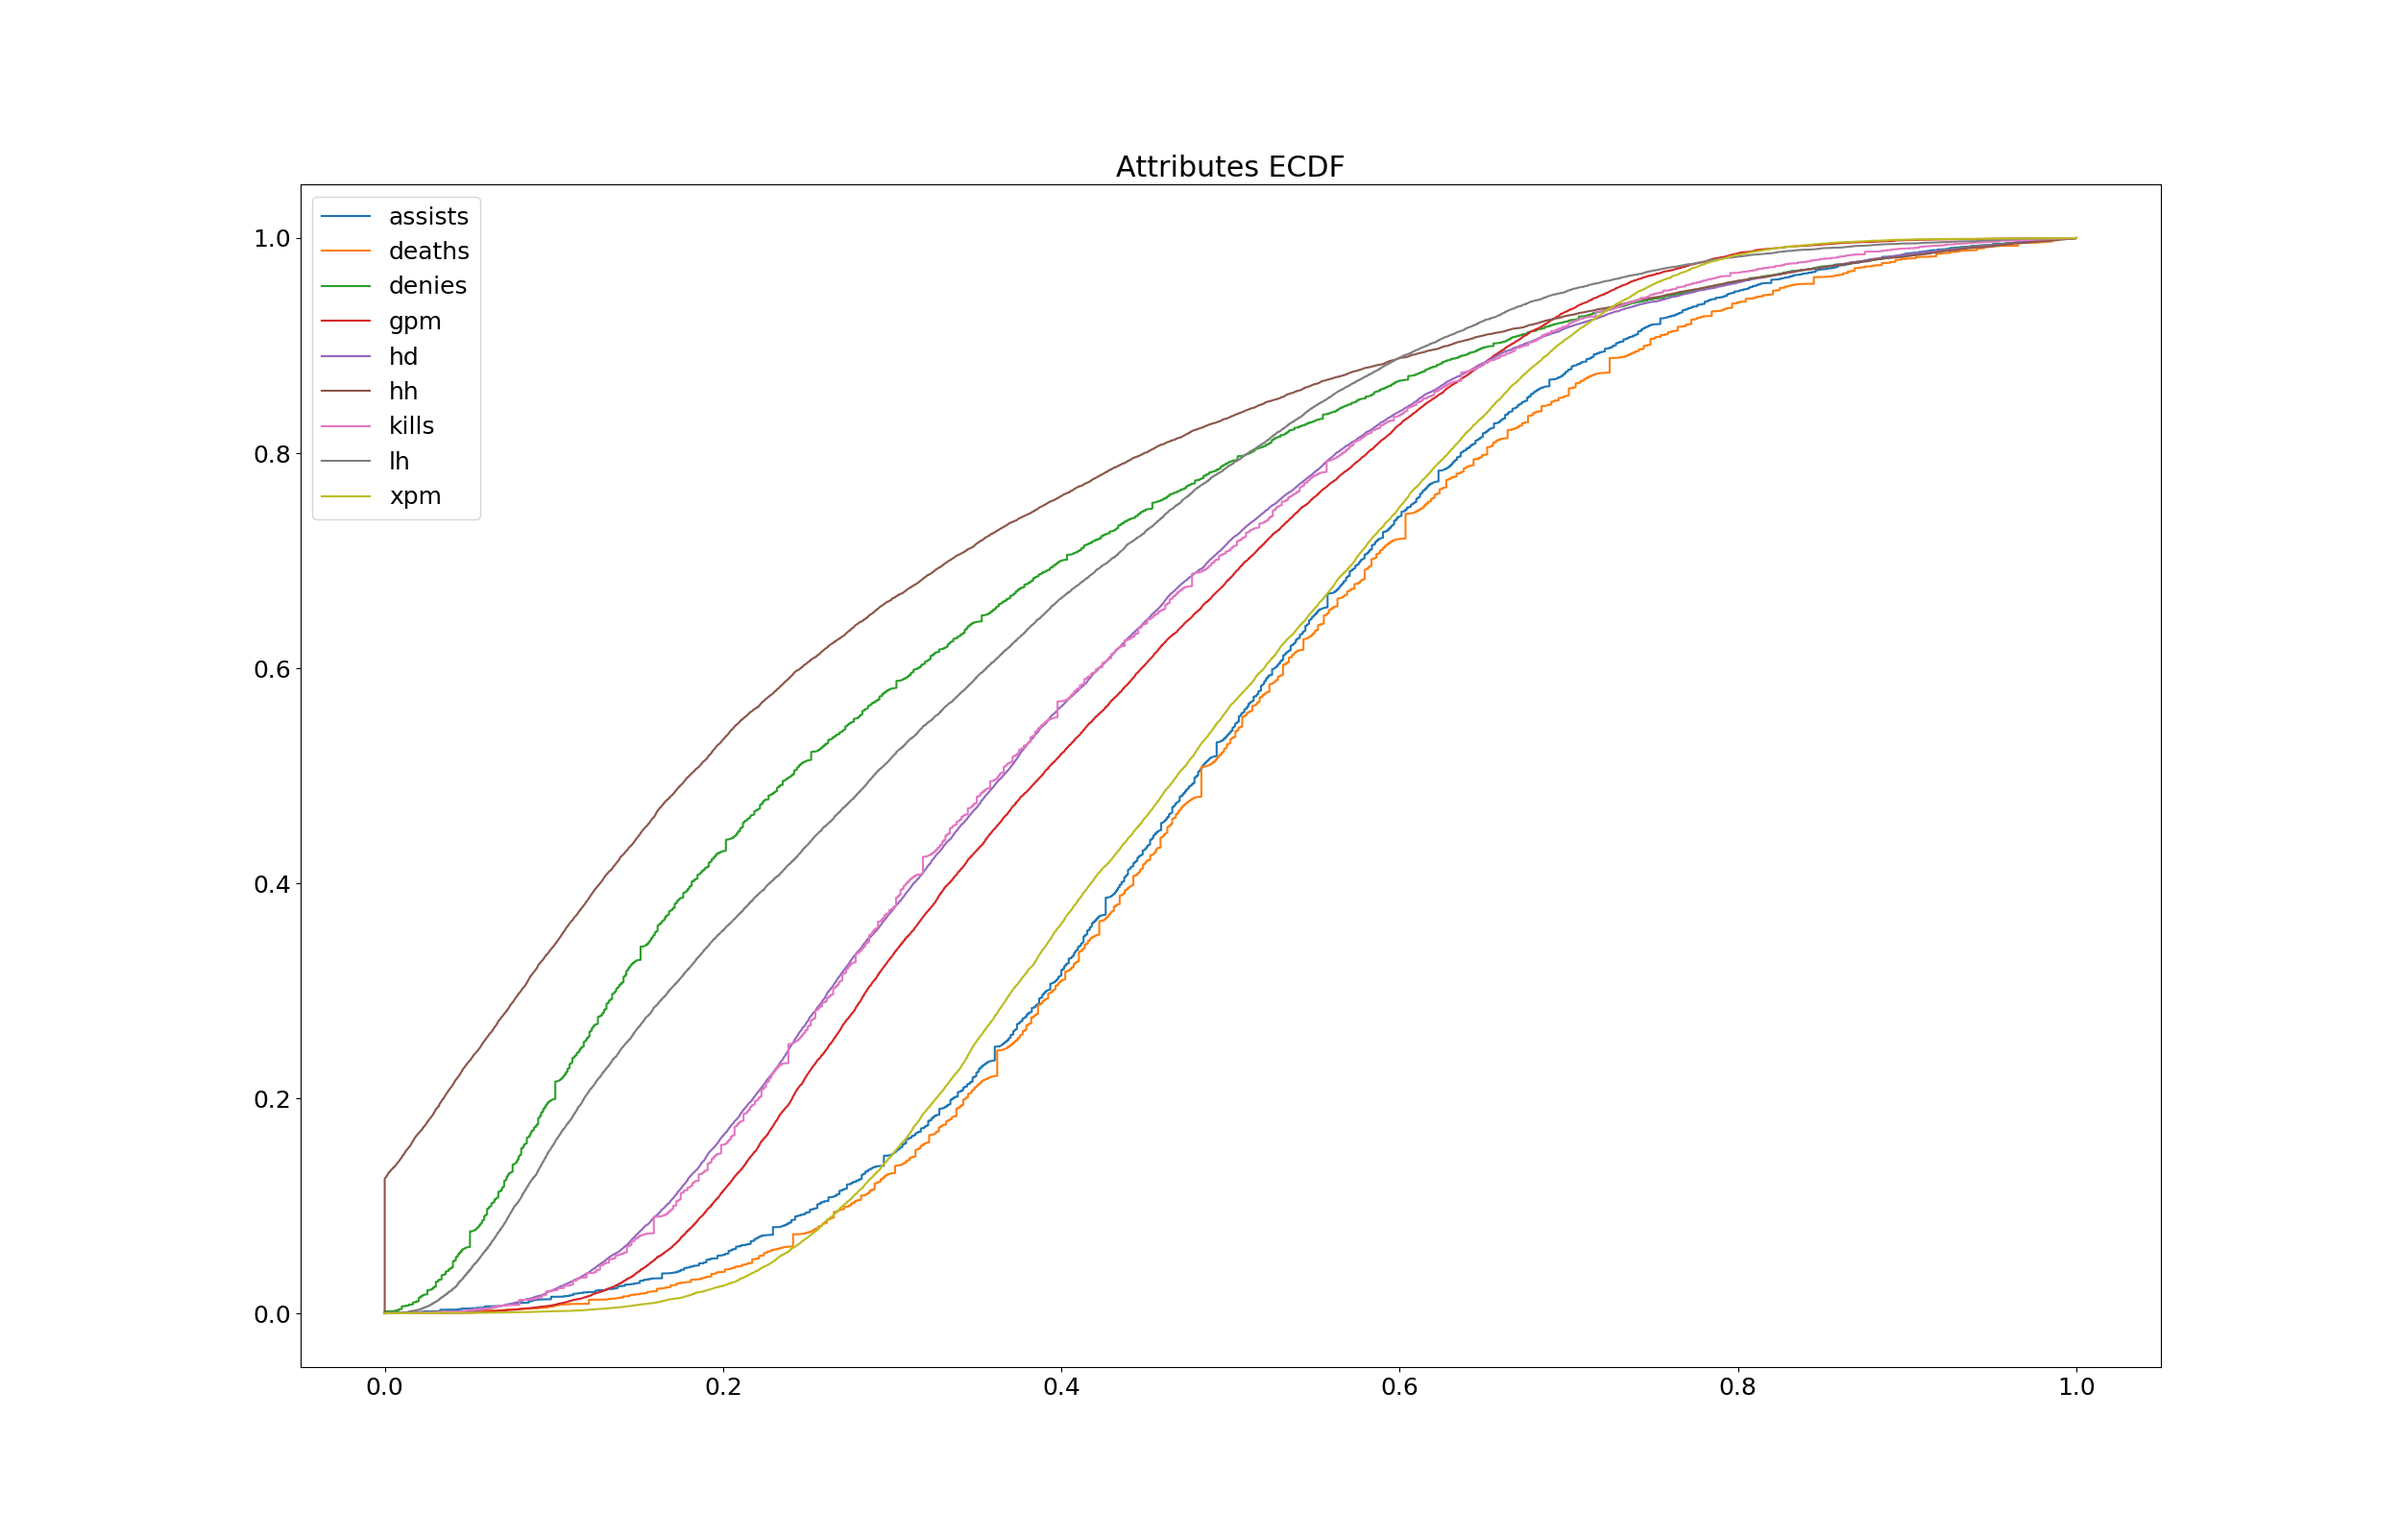
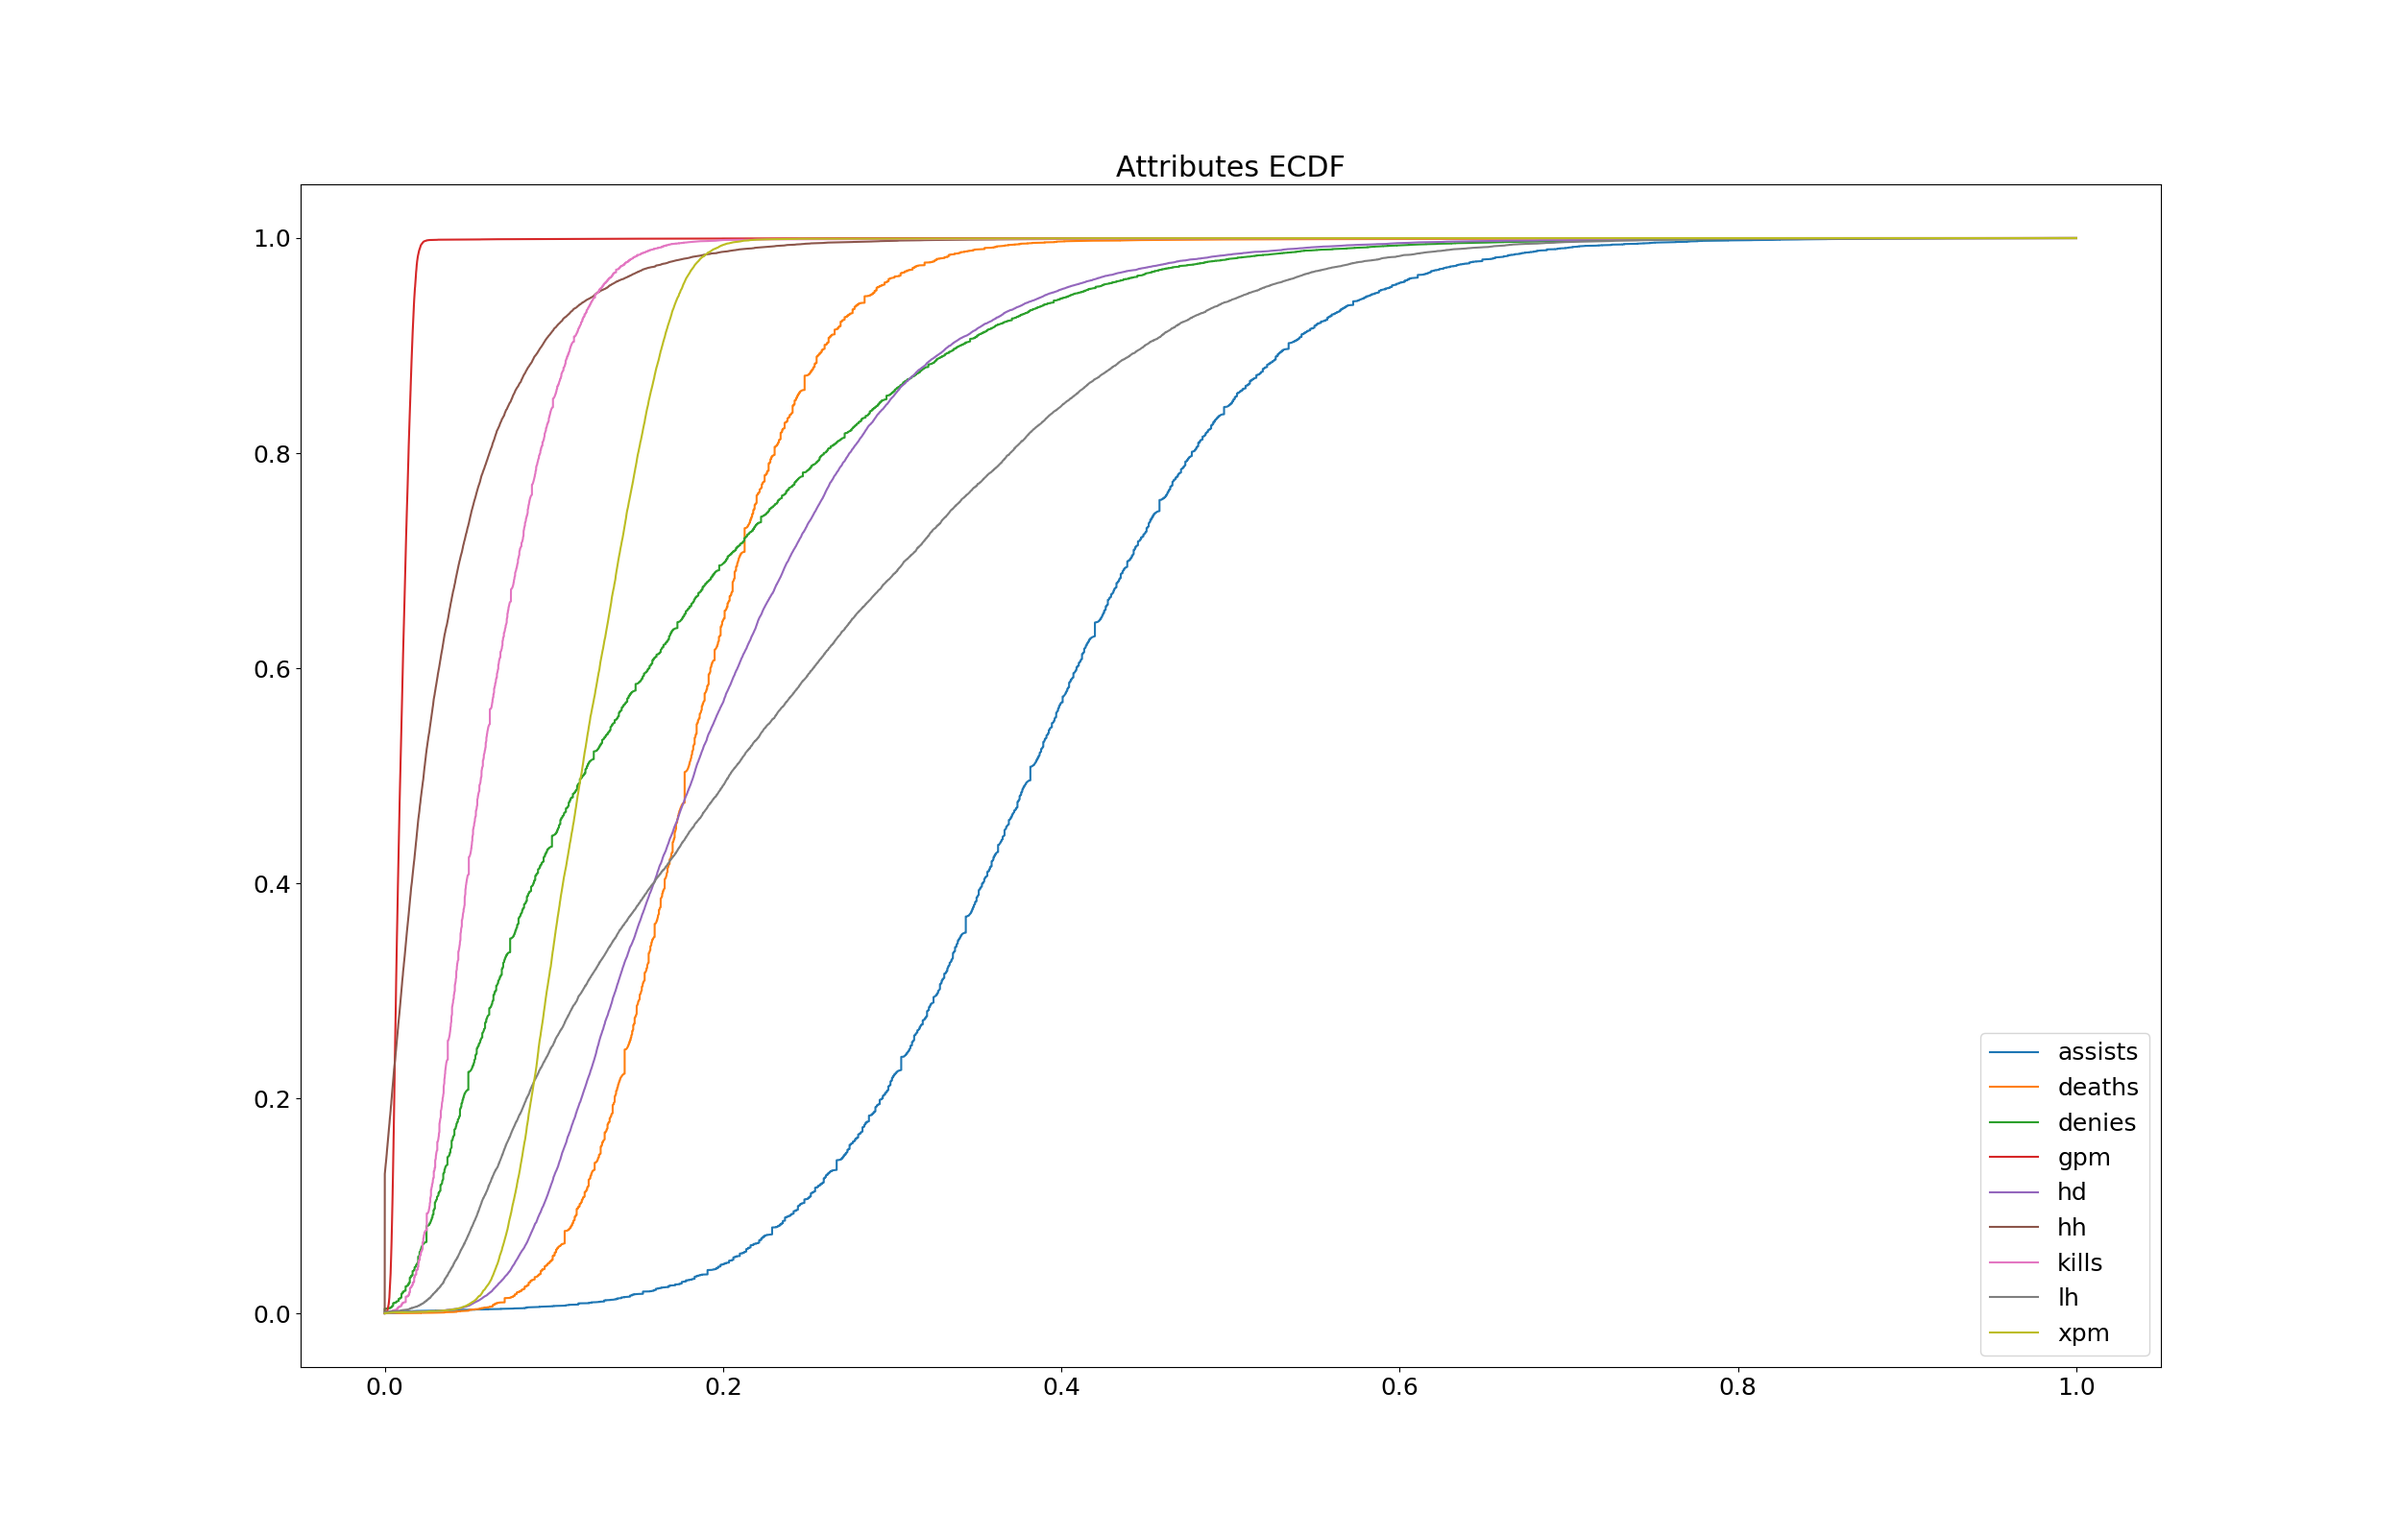
cdf+=2

diff --git a/scripts/ecdf.py b/scripts/ecdf.py
@@ -10,12 +10,12 @@ def main():
     plots_path = "files/output_ecdf/"
     data = read_data("df_w_metrics_all")
     data_pruned = read_data("df_data_pruned")
+    data_all = read_data("df_data")
 
-    for attr in data_pruned:
-        # NORMALIZAR OS DADOS
-        data_pruned[attr] = (data_pruned[attr] - data_pruned[attr].min()) / \
-            (data_pruned[attr].max() - data_pruned[attr].min())
-        ecdf = ECDF(data_pruned[attr])
+    for attr in data_all:
+        data_all[attr] = (data_all[attr] - data_all[attr].min()) / \
+            (data_all[attr].max() - data_all[attr].min())
+        ecdf = ECDF(data_all[attr])
         plt.plot(ecdf.x, ecdf.y, label=attr)
     plt.legend()
     plt.title("Attributes ECDF")
@@ -23,6 +23,20 @@ def main():
     plt.savefig(file_name)
     plt.clf()
     print('Graph %s saved.' % file_name)
+
+    for attr in data_pruned:
+        data_pruned[attr] = (data_pruned[attr] - data_pruned[attr].min()) / \
+            (data_pruned[attr].max() - data_pruned[attr].min())
+        ecdf = ECDF(data_pruned[attr])
+        plt.plot(ecdf.x, ecdf.y, label=attr)
+    plt.legend()
+    plt.title("Attributes ECDF pruned")
+    file_name = plots_path + "attributes_ecdf_pruned.png"
+    #plt.show()
+    plt.savefig(file_name)
+    plt.clf()
+    print('Graph %s saved.' % file_name)
+
 
     for metric in ["kda", "adg", "g", "x"]:
         for cluster in range(0, 10):
